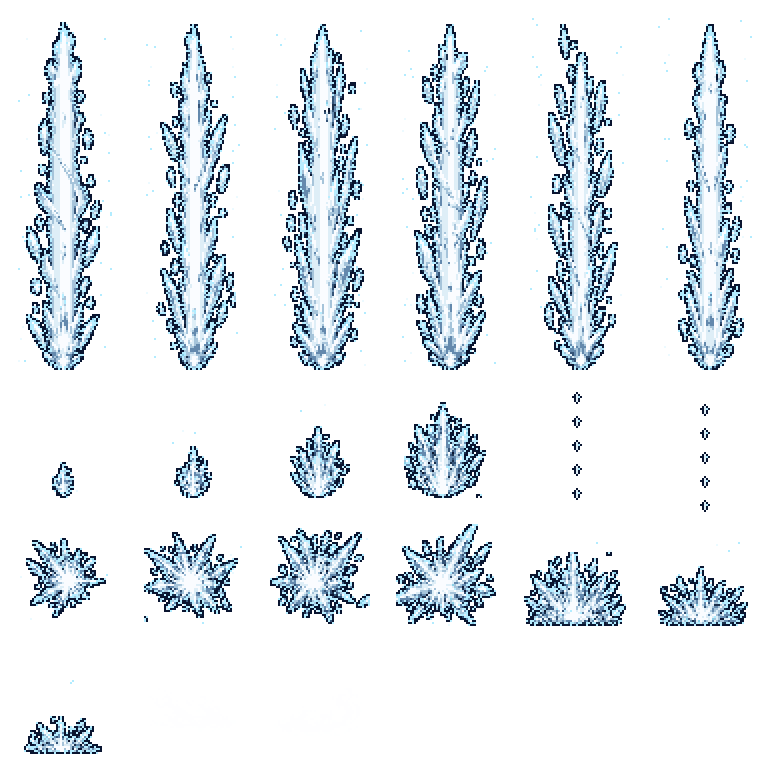
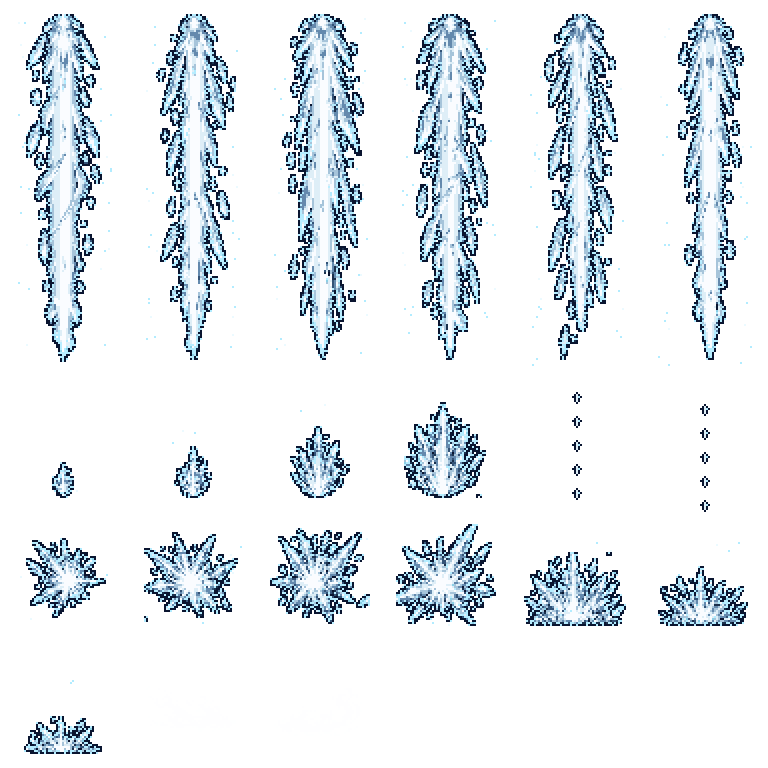
Frost rail mine: the ice beam's point leaves the mine and its shard splash lands on the far rail (cells were end for end)

diff --git a/Pause/Assets/Art/Attacks/MineBeams~/frost/src~/flip_beam_cells.py b/Pause/Assets/Art/Attacks/MineBeams~/frost/src~/flip_beam_cells.py
@@ -1,0 +1,19 @@
+#!/usr/bin/env python3
+"""Turn the Frost mine's six beam cells (row 0, 128 x 384 each) end for end, once.
+
+The painted icicle beam had its shard splash at the cell's bottom (the muzzle) and its point at the top (the far
+rail), so in game it read as a beam striking the mine. Flipped: the thin bright core leaves the mine and the shard
+splash lands on the far rail. Run on a freshly built atlas (build_minebeam.py) only; running twice undoes it.
+
+    python3 flip_beam_cells.py <atlas.png> [...]
+"""
+import sys
+from PIL import Image
+
+for path in sys.argv[1:]:
+    im = Image.open(path).convert("RGBA")
+    for i in range(6):
+        box = (i * 128, 0, i * 128 + 128, 384)
+        im.paste(im.crop(box).transpose(Image.FLIP_TOP_BOTTOM), box[:2])
+    im.save(path, optimize=True)
+    print("flipped", path)

diff --git a/Pause/Assets/Art/Attacks/MineBeams~/frost/src~/build_minebeam.py b/Pause/Assets/Art/Attacks/MineBeams~/frost/src~/build_minebeam.py
@@ -241,7 +241,7 @@ def build() -> None:
     make_impacts(native, effects)
     make_haze(native, haze)
     atlas = native.resize((768, 768), NEAREST)
-    atlas.save(OUT / "frost_attack_minebeam.png")
+    atlas.save(OUT / "frost_attack_minebeam.png")   # then flip_beam_cells.py on it (point at the muzzle, splash on the far rail)
     preview(atlas)
 
 
